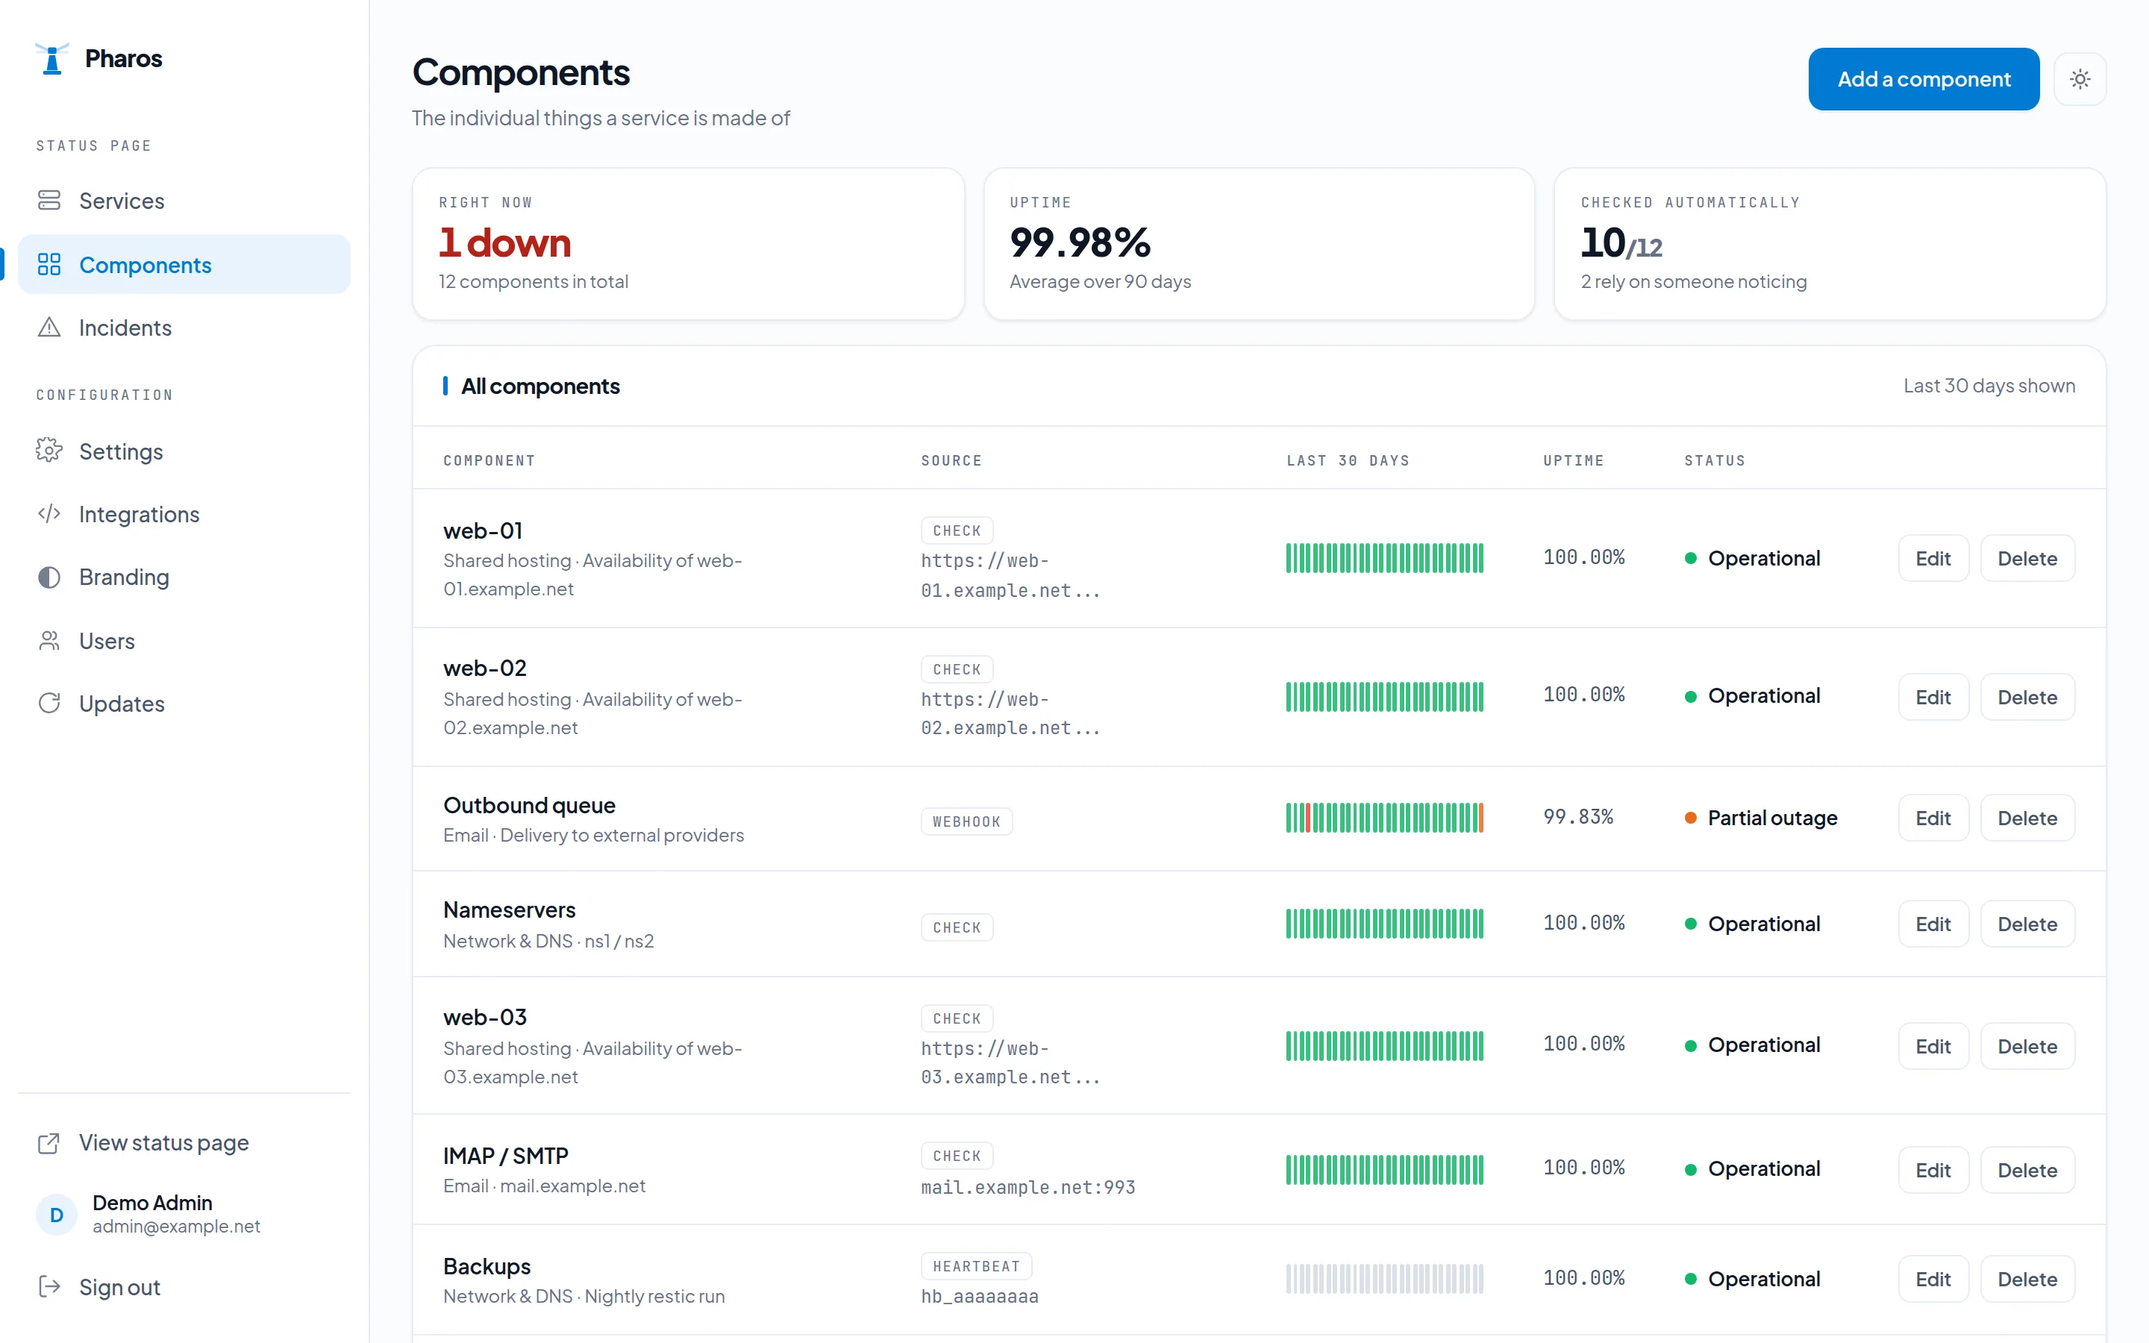
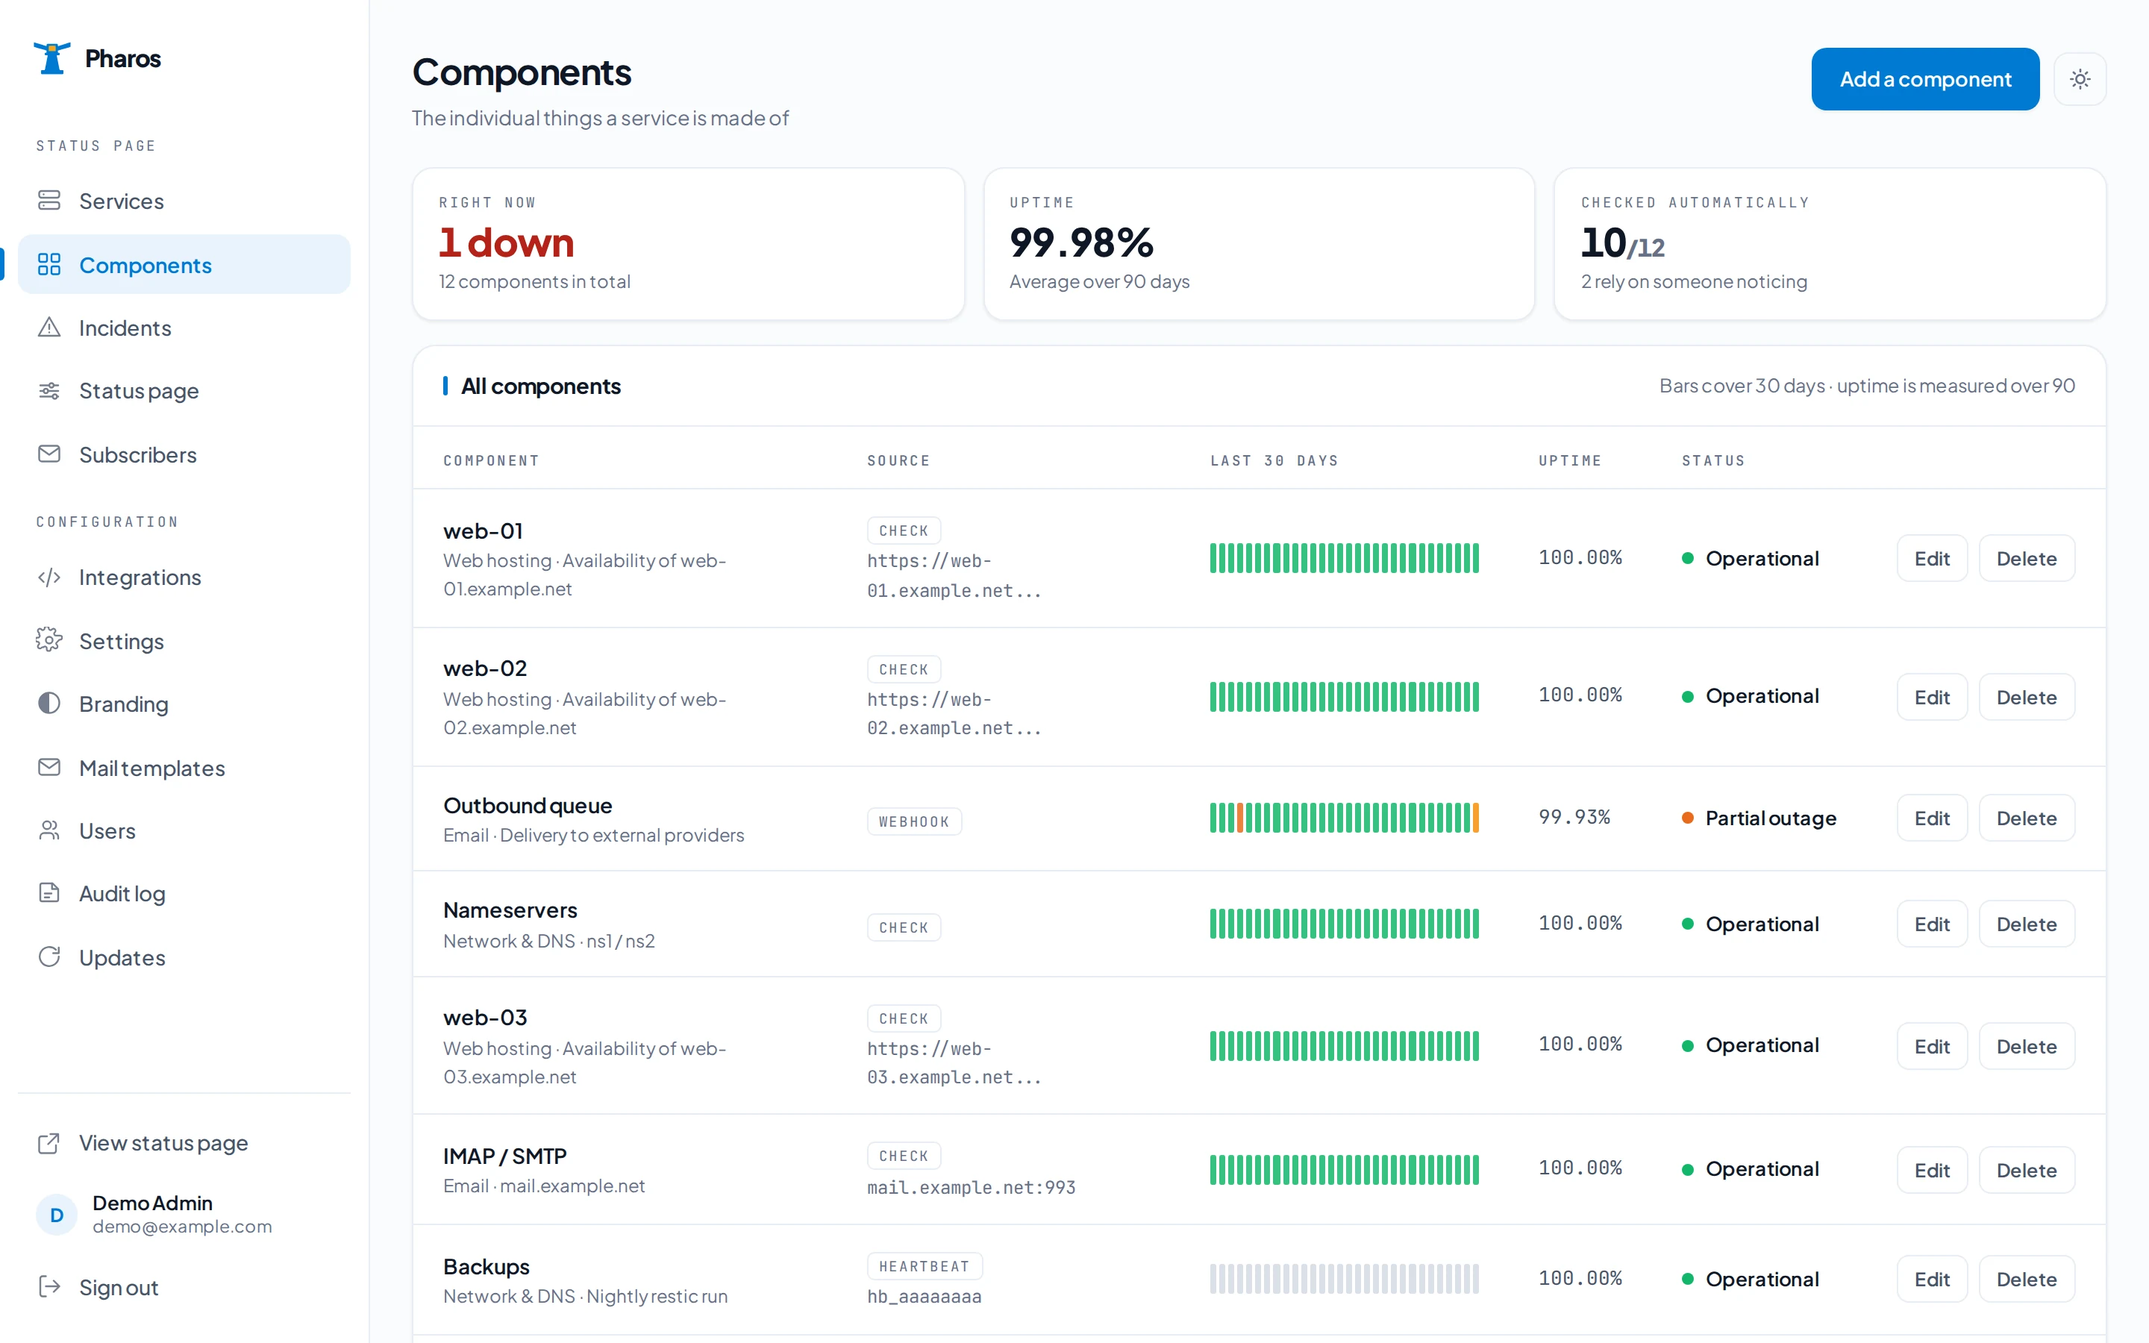
docs: README for the public repo
- banner is the new hero (the product running an incident), 2560px
- five 2x screenshots of the current UI, admin-settings replaced by the Status page screen
- badges: 563 tests, Cachet 2.x API, cPanel/DirectAdmin/Plesk/Docker, Buy me a coffee at the top
- What is in the box table (checks, incidents, uptime, page, subscribers, integrations, updates, users, audit log, time zone)
- Docker steps include the APP_KEY compose requires; storage:link added to the PHP-host steps
- Cachet 2.x last release 2023; Supported plan = support + Brand pack, updates free for everyone
- no 'shared hosting' anywhere in README, docs/, CONTRIBUTING, COMMERCIAL-LICENSE, .env.example
- Support the work + coffee link as the very last section

diff --git a/README.md b/README.md
@@ -1,13 +1,23 @@
 <p align="center">
-  <img src="docs/img/banner.png" alt="Pharos — your status page is green. Your server is not." width="100%">
+  <a href="https://pharos.solutionmax.net"><img src="docs/img/banner.png" alt="Pharos — your status page is green. Your server is not. A status page opening an incident by itself." width="100%"></a>
 </p>
 
 <p align="center">
   <a href="LICENSE"><img alt="Licence: AGPL-3.0" src="https://img.shields.io/badge/licence-AGPL--3.0-0079d2"></a>
   <img alt="PHP 8.3+" src="https://img.shields.io/badge/PHP-8.3%2B-777bb4">
-  <img alt="Laravel 12 LTS" src="https://img.shields.io/badge/Laravel-12%20LTS-ff2d20">
-  <img alt="355 tests" src="https://img.shields.io/badge/tests-355%20passing-12b76a">
-  <img alt="Runs on shared hosting" src="https://img.shields.io/badge/runs%20on-shared%20hosting%20%C2%B7%20Docker-475467">
+  <img alt="Laravel 12" src="https://img.shields.io/badge/Laravel-12-ff2d20">
+  <img alt="563 tests passing" src="https://img.shields.io/badge/tests-563%20passing-12b76a">
+  <img alt="Cachet 2.x compatible API" src="https://img.shields.io/badge/API-Cachet%202.x%20compatible-0e1726">
+  <img alt="Runs on cPanel, DirectAdmin, Plesk or Docker" src="https://img.shields.io/badge/runs%20on-cPanel%20%C2%B7%20DirectAdmin%20%C2%B7%20Plesk%20%C2%B7%20Docker-475467">
+  <a href="https://buymeacoffee.com/solutionmax"><img alt="Buy me a coffee" src="https://img.shields.io/badge/Buy%20me%20a%20coffee-ffdd00?logo=buymeacoffee&logoColor=000"></a>
+</p>
+
+<p align="center">
+  <a href="https://pharos.solutionmax.net">Website</a> ·
+  <a href="https://pharos.solutionmax.net/docs.html">Documentation</a> ·
+  <a href="#install">Install</a> ·
+  <a href="#connecting-it-to-what-you-already-run">API &amp; integrations</a> ·
+  <a href="#licence">Licence</a>
 </p>
 
 # Pharos
@@ -19,14 +29,15 @@ ports, listens for heartbeats from jobs it cannot see from outside, and sets com
 without anyone pressing a button. A failing check opens an incident and posts the first update;
 a recovered check closes it and posts the closing update.
 
-It runs on PHP 8.3 with SQLite — which means the shared cPanel account you already pay for,
-not a VPS.
+It is a standard PHP 8.3 application with SQLite or MySQL — so it runs on the cPanel,
+DirectAdmin or Plesk account you already pay for, on any other PHP host, or in Docker.
+No daemon, no worker queue, no VPS.
 
 ---
 
 ## Why it exists
 
-- **Cachet 2.x has had no release since 2021.** Nothing checks anything: a component turns red
+- **Cachet 2.x has had no release since 2023.** Nothing checks anything: a component turns red
   because a person made it red, so it is usually still green while the site is down.
 - **Cachet 3.x is no longer open source.** Its licence forbids removing its notices and forbids
   distributing it as a standalone product — which rules it out for anyone reselling hosting.
@@ -34,6 +45,23 @@ not a VPS.
   logged four times, or once while ignoring three of them.
 
 Pharos speaks the Cachet 2.x API on purpose, so scripts written against Cachet keep working.
+
+---
+
+## What is in the box
+
+| | |
+|---|---|
+| **Checks** | HTTP, TCP and heartbeat. Two failures turn a component red, three healthy checks in a row close the incident. |
+| **Incidents** | Opened and closed by the checks themselves, or by hand. One incident can span several components, each with its own status. Templates with `{{variables}}` for the API. |
+| **Uptime** | Daily roll-ups into a 90-day bar and a percentage. Days without data are grey and left out of the average — never counted as green. |
+| **Public page** | Every section is a switch (banner, uptime bar, services, per-component bars, incident history, empty days, API link), per-service visibility, light and dark theme, and a live preview in the admin that renders the real page from values you have not saved yet. |
+| **Subscribers** | A *Get notified* button, double opt-in, one e-mail per incident update, one-click unsubscribe. The four mails are editable Markdown templates. |
+| **Integrations** | Cachet 2.x compatible REST API, Uptime Kuma push monitors, n8n in both directions with an HMAC-signed outgoing webhook, Zabbix and Grafana through the API, Slack incoming webhooks. |
+| **Updates** | Signed release manifests (Ed25519), one-click install from the admin with an automatic backup, rollback, download and retention. Docker hosts pull the image instead. |
+| **Users** | Per-user TOTP two-factor with recovery codes, OpenID Connect single sign-on, roles. |
+| **Audit log** | Who changed what and when, filterable, exportable as CSV, with a configurable retention. |
+| **Time zone** | Everything stored in UTC, shown in the zone you pick; change it any time. |
 
 ---
 
@@ -48,22 +76,31 @@ Pharos speaks the Cachet 2.x API on purpose, so scripts written against Cachet k
 <em>Components. The tiles answer “what is wrong right now” before the table does — including how
 many components still rely on someone noticing.</em>
 
-<img src="docs/img/admin-settings.webp" alt="The Status page screen with section toggles on the left and a live preview of the public status page on the right." width="100%">
+<img src="docs/img/admin-status-page.webp" alt="The Status page screen with one switch per section on the left and a live preview of the public page on the right, with a desktop and phone toggle." width="100%">
 
 <em>Status page. Tick a section off and it disappears from the preview beside it — the real page,
 rendered from values you have not saved yet.</em>
+
+<img src="docs/img/admin-incidents.webp" alt="The incidents screen: open now, opened in the last 30 days, typical time to resolve, and a list showing which incidents were opened by a check and which by the API." width="100%">
+
+<em>Incidents. Each row says whether a check, the API or a person opened it.</em>
+
+<img src="docs/img/admin-updates.webp" alt="The updates screen: installed version, available release, how this install updates, and the backups kept with download, roll back and delete." width="100%">
+
+<em>Updates. Signed releases, one click, a backup before anything is written, and roll back if you
+change your mind.</em>
 
 ---
 
 ## Install
 
-### Shared hosting (cPanel)
+### cPanel, DirectAdmin, Plesk — or any PHP 8.3 host
 
 Requires PHP 8.3 or later with the usual Laravel extensions, and either SQLite or MySQL.
 No daemon, no worker queue, no root.
 
 ```bash
-# 1. upload or clone into a directory outside public_html
+# 1. upload or clone into a directory outside the web root
 git clone https://github.com/solutionmax/pharos.git ~/pharos
 cd ~/pharos
 
@@ -75,16 +112,18 @@ cp .env.example .env
 php artisan key:generate
 touch database/database.sqlite
 php artisan migrate --force
+php artisan storage:link
 
 # 4. point the document root at ~/pharos/public
+#    cPanel: Domains · DirectAdmin: Domain Setup · Plesk: Hosting Settings → Document root
 ```
 
 Then open the site in a browser. A fresh install answers every URL with a one-screen setup
 form: name the status page, create your administrator, done. The form disappears the moment
 that account exists.
 
-If you would rather not touch a browser, `php artisan pharos:user you@example.com` still
-creates the first account from the command line.
+If you would rather not touch a browser, `php artisan pharos:user you@example.com` creates
+the first account from the command line — and gets you back in if you ever lock yourself out.
 
 Then add **one** cron entry. This is the entire scheduler:
 
@@ -92,8 +131,8 @@ Then add **one** cron entry. This is the entire scheduler:
 * * * * * cd ~/pharos && php artisan schedule:run
 ```
 
-In cPanel's cron form the first five stars go in the schedule fields and the rest in the
-command field.
+In a control panel's cron form the first five stars go in the schedule fields and the rest
+in the command field.
 
 ### Docker
 
@@ -101,12 +140,16 @@ command field.
 git clone https://github.com/solutionmax/pharos.git
 cd pharos
 cp .env.docker.example .env
+
+# an application key is required; generate one and put it in .env as APP_KEY=
+docker run --rm php:8.3-cli php -r "echo 'base64:'.base64_encode(random_bytes(32)).PHP_EOL;"
+
 docker compose up -d
 ```
 
-Two containers: the application on `php:8.3-apache`, and a second one running
-`php artisan schedule:work`. The database is SQLite on a volume by default; point
-`DB_CONNECTION` at MySQL if you prefer.
+Two containers from one image: the application on `php:8.3-apache` (port `8080` by
+default, change `PHAROS_PORT` in `.env`), and a second one running `php artisan schedule:work`.
+The database is SQLite on a volume; point `DB_CONNECTION` at MySQL if you prefer.
 
 ### Check it is alive
 
@@ -135,7 +178,7 @@ before the incident closes. That is deliberate: one dropped packet should not pu
 ## Connecting it to what you already run
 
 The API is **Cachet 2.x compatible**: same endpoints, same status integers, and
-`X-Cachet-Token` accepted alongside `Authorization: Bearer`.
+`X-Cachet-Token` accepted alongside `Authorization: Bearer`. Reads need no token.
 
 ```bash
 curl -X POST https://status.example.com/api/v1/incidents \
@@ -149,21 +192,26 @@ curl -X POST https://status.example.com/api/v1/incidents \
 ```
 
 - **Uptime Kuma** — a push monitor calls in; silence turns the component red
-- **n8n** — both directions, with an HMAC-signed outgoing webhook on every incident
+- **n8n** — both directions, with an HMAC-SHA256 signed outgoing webhook on every incident
 - **Zabbix and Grafana** — through the same API, no plugin needed
+- **Slack** — an incoming webhook per incident update; see [docs/notifications.md](docs/notifications.md)
 - **Anything else** — a token and a POST is the whole contract
-- **Your visitors** — a "Get notified" button on the status page; confirmed addresses get an
+- **Your visitors** — a *Get notified* button on the status page; confirmed addresses get an
   e-mail per incident update, with one-click unsubscribe. See [docs/subscribers.md](docs/subscribers.md)
+
+Single sign-on and two-factor are covered in [docs/sso.md](docs/sso.md); how licence keys are
+issued and verified in [docs/licensing.md](docs/licensing.md).
 
 ---
 
 ## Updates
 
-Pharos checks for a signed release manifest and shows what is available under **Updates**.
+Pharos checks for a signed release manifest and shows what is available under **Updates** —
+on every installation, paid or not.
 
-On shared hosting it downloads the release, verifies the SHA-256, backs up the current version
-and replaces its own files, keeping `.env`, `storage/` and the database. On Docker the host
-pulls the new image.
+On a PHP host it downloads the release, verifies the SHA-256, backs up the current version and
+replaces its own files, keeping `.env`, `storage/` and the database. Roll back from the same
+screen. On Docker the host pulls the new image.
 
 Manifests are signed with **Ed25519** and verified locally. If the release server cannot be
 reached, that reads as *no update available* — never as an error.
@@ -176,7 +224,8 @@ Stated plainly rather than described as if it were finished:
 
 - **External probe locations.** Everything is checked from wherever Pharos runs, which is why
   you should host it away from what it is watching.
-- **Cachet importer.** Moving from an existing Cachet install is manual for now.
+- **Cachet importer.** Moving from an existing Cachet install is manual for now; the API
+  compatibility means your integrations do not have to move at all.
 
 ---
 
@@ -200,16 +249,22 @@ short contributor licence agreement that makes the dual licence possible.
 
 | | |
 |---|---|
-| **Brand pack** | One-time. Your logo, favicon and sender address; the "Powered by Pharos" credit removed. |
-| **Supported** | Yearly. Signed one-click updates from the admin panel, and support beyond the public issue tracker. |
-| **Commercial licence** | Yearly. The AGPL publication requirement lifted for one organisation. |
+| **Brand pack** | One-time. Your logo, favicon and sender address, editable mail templates, the "Powered by Pharos" credit removed. |
+| **Supported** | Yearly. Support by e-mail from the person who wrote the code, your bug reports first, the Brand pack included while it runs. |
+| **Commercial licence** | Yearly. The AGPL publication requirement lifted for one organisation. Includes Supported. |
 
-None of it is required to run Pharos, and nothing is gated behind it. Every feature is in
-the free version. What you are paying for is convenience, support, and not having to
-publish your own changes.
+None of it is required to run Pharos. Every feature — including signed one-click updates —
+is in the free version. What you are paying for is your own branding, support, and not having
+to publish your own changes. Prices are on [pharos.solutionmax.net](https://pharos.solutionmax.net/#pricing).
 
 Licences are verified locally with an Ed25519 signature. Pharos never phones home to ask
 whether you are allowed to run it.
+
+---
+
+<sub>Pharos — a <a href="https://solutionmax.net">SolutionMAX</a> product ·
+<a href="https://pharos.solutionmax.net">pharos.solutionmax.net</a> ·
+<a href="https://github.com/solutionmax/pharos-site">website and documentation source</a></sub>
 
 ## Support the work
 
@@ -219,8 +274,3 @@ If it saved you an afternoon:
 <a href="https://buymeacoffee.com/solutionmax">
   <img alt="Buy me a coffee" src="https://img.shields.io/badge/Buy%20me%20a%20coffee-ffdd00?logo=buymeacoffee&logoColor=000">
 </a>
-
----
-
-<sub>Pharos — a <a href="https://solutionmax.net">SolutionMAX</a> product ·
-<a href="https://github.com/solutionmax/pharos-site">website and documentation</a></sub>

diff --git a/CONTRIBUTING.md b/CONTRIBUTING.md
@@ -13,8 +13,8 @@ something that does not fit, and me reviewing something I have to turn down.
 - **Tests.** Anything that can break has a test. Run `php artisan test` before opening a
   pull request — 186 of them pass today and that number should only go up.
 - **Small files.** If a class is past ~400 lines, it is probably two classes.
-- **No new dependencies** without saying why in the issue. This has to install on shared
-  hosting where people cannot compile things.
+- **No new dependencies** without saying why in the issue. This has to install on a plain
+  cPanel, DirectAdmin or Plesk account where people cannot compile things.
 - **Honest documentation.** If something is half-finished, the docs say so. There is a
   "Not implemented yet" section in the README and it is there on purpose.
 

diff --git a/docs/notifications.md b/docs/notifications.md
@@ -151,7 +151,7 @@ resolved. Resolved messages carry a green check instead of the red light, so a
 channel reads as a timeline rather than a pile of alarms.
 
 ⚠ **One attempt, no retry, five second limit.** A slow receiver must never hold
-up publishing an outage, and Pharos has to survive on shared hosting with a
+up publishing an outage, and Pharos has to survive on a plain PHP host with a
 single cron line — there is no queue to retry from. A failed delivery is
 recorded on the endpoint and visible in the admin, but nobody was told. Where
 that genuinely matters, point Pharos at something that retries for you, such as

diff --git a/COMMERCIAL-LICENSE.md b/COMMERCIAL-LICENSE.md
@@ -42,7 +42,7 @@ your own name. That is a separate conversation, and the answer is usually yes.
 | | |
 |---|---|
 | **Brand pack** | One-time · your logo, favicon and sender address, credit removed |
-| **Supported** | Yearly · signed one-click updates and support beyond the public issue tracker |
+| **Supported** | Yearly · support by e-mail within a working day, Brand pack included while it runs |
 | **Commercial licence** | Yearly · the AGPL publication requirement lifted, for one organisation |
 
 Current prices are on <https://pharos.solutionmax.net/#pricing>. If you are a one-person

diff --git a/docs/subscribers.md b/docs/subscribers.md
@@ -160,7 +160,7 @@ their own after 7 days.
 
 ## Limits
 
-- Mail goes through whatever Settings → Mail (or `MAIL_*`) points at; on shared hosting that usually
+- Mail goes through whatever Settings → Mail (or `MAIL_*`) points at; on a cPanel, DirectAdmin or Plesk account that usually
   means the host's SMTP and its hourly cap. The batch size of 50 per minute is
   deliberately below most of them.
 - The mail text is fixed in this release. Editable templates are the next phase.
